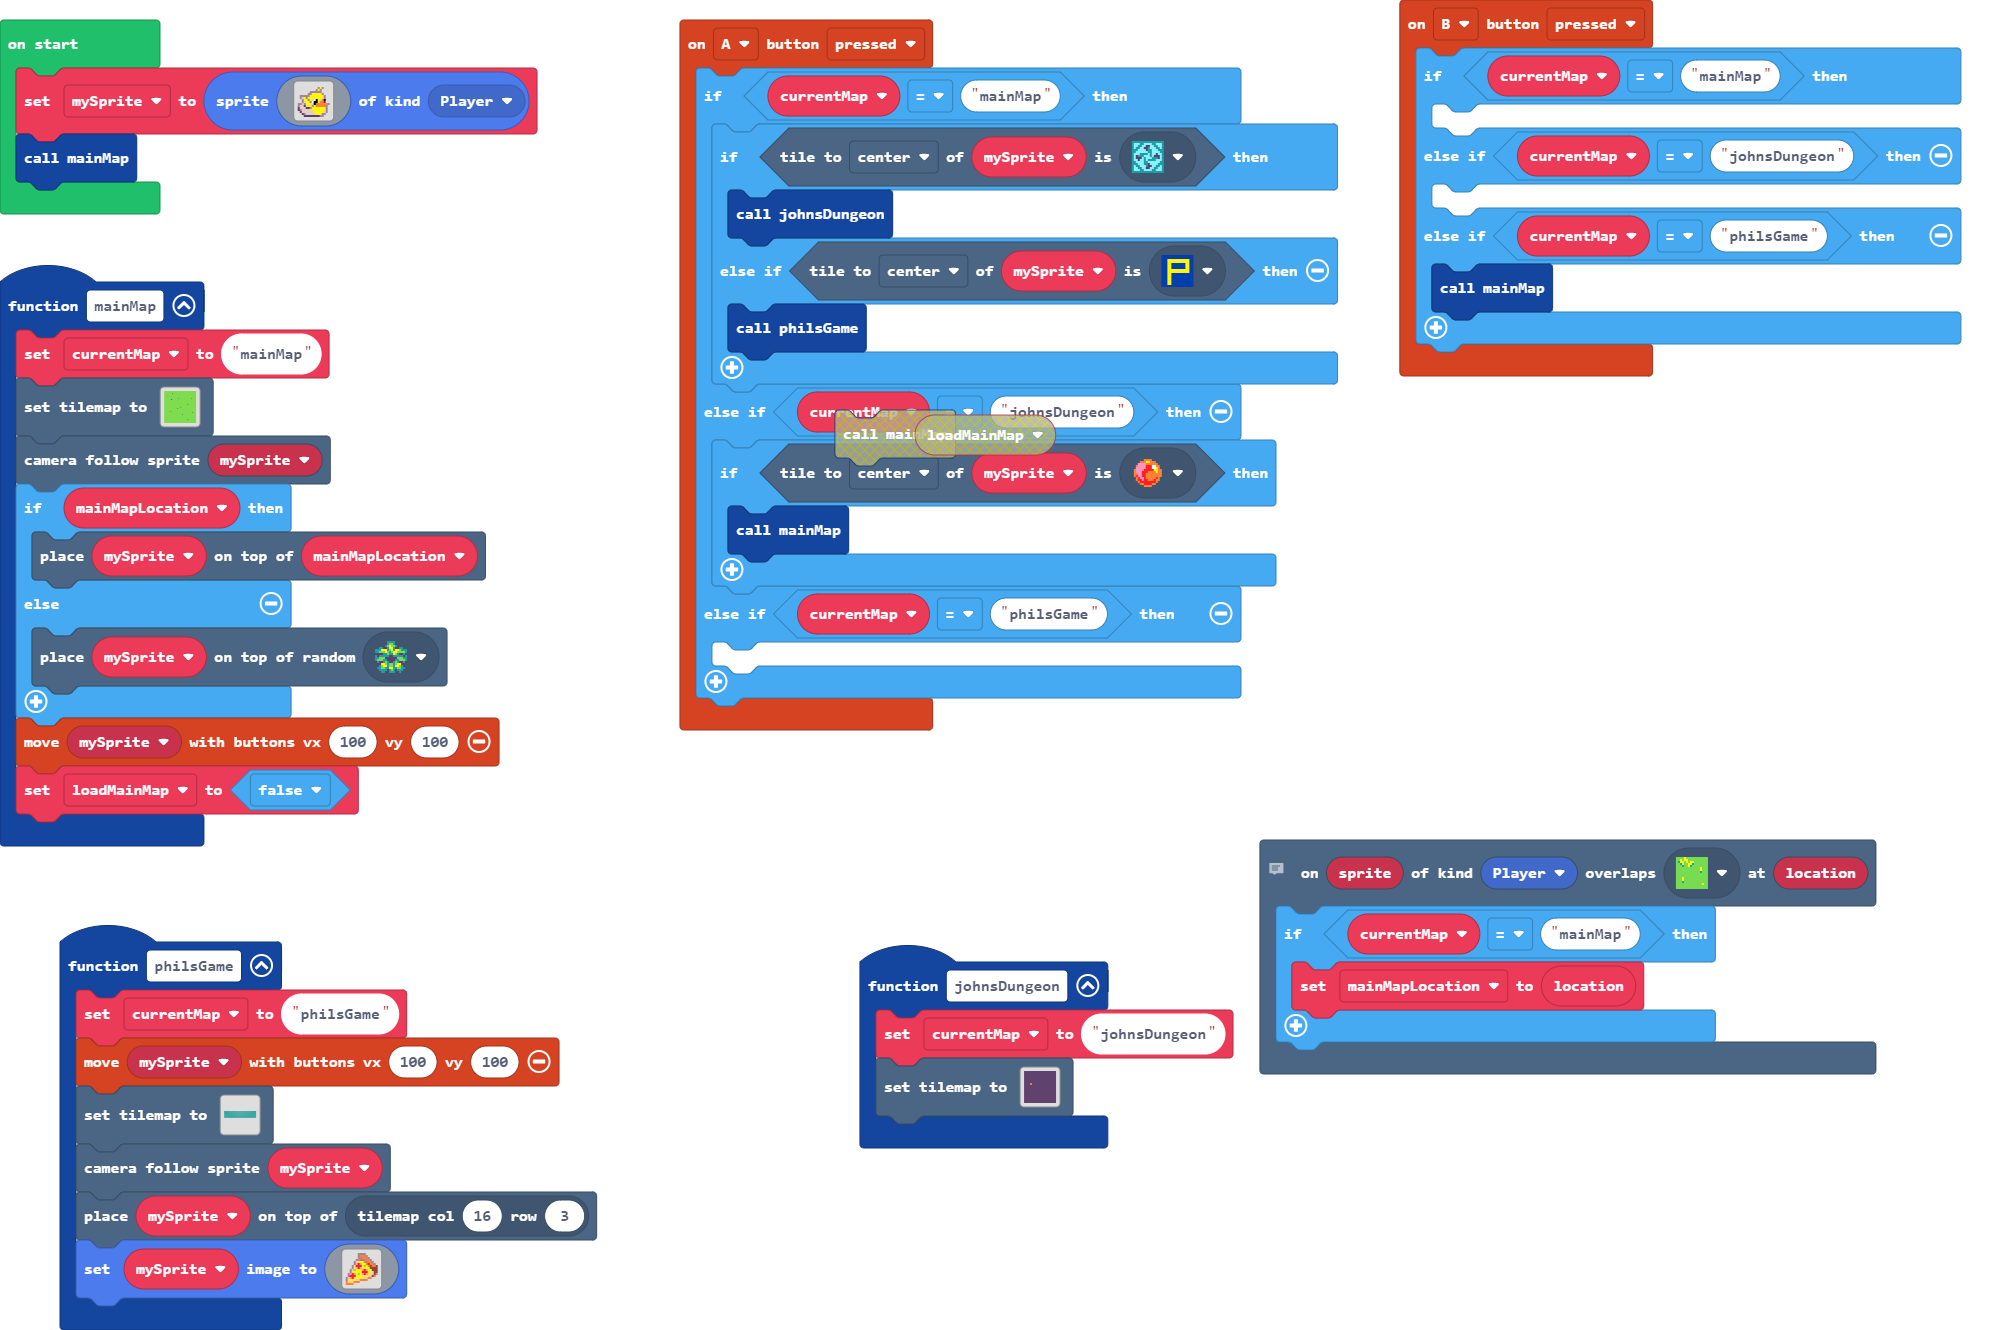
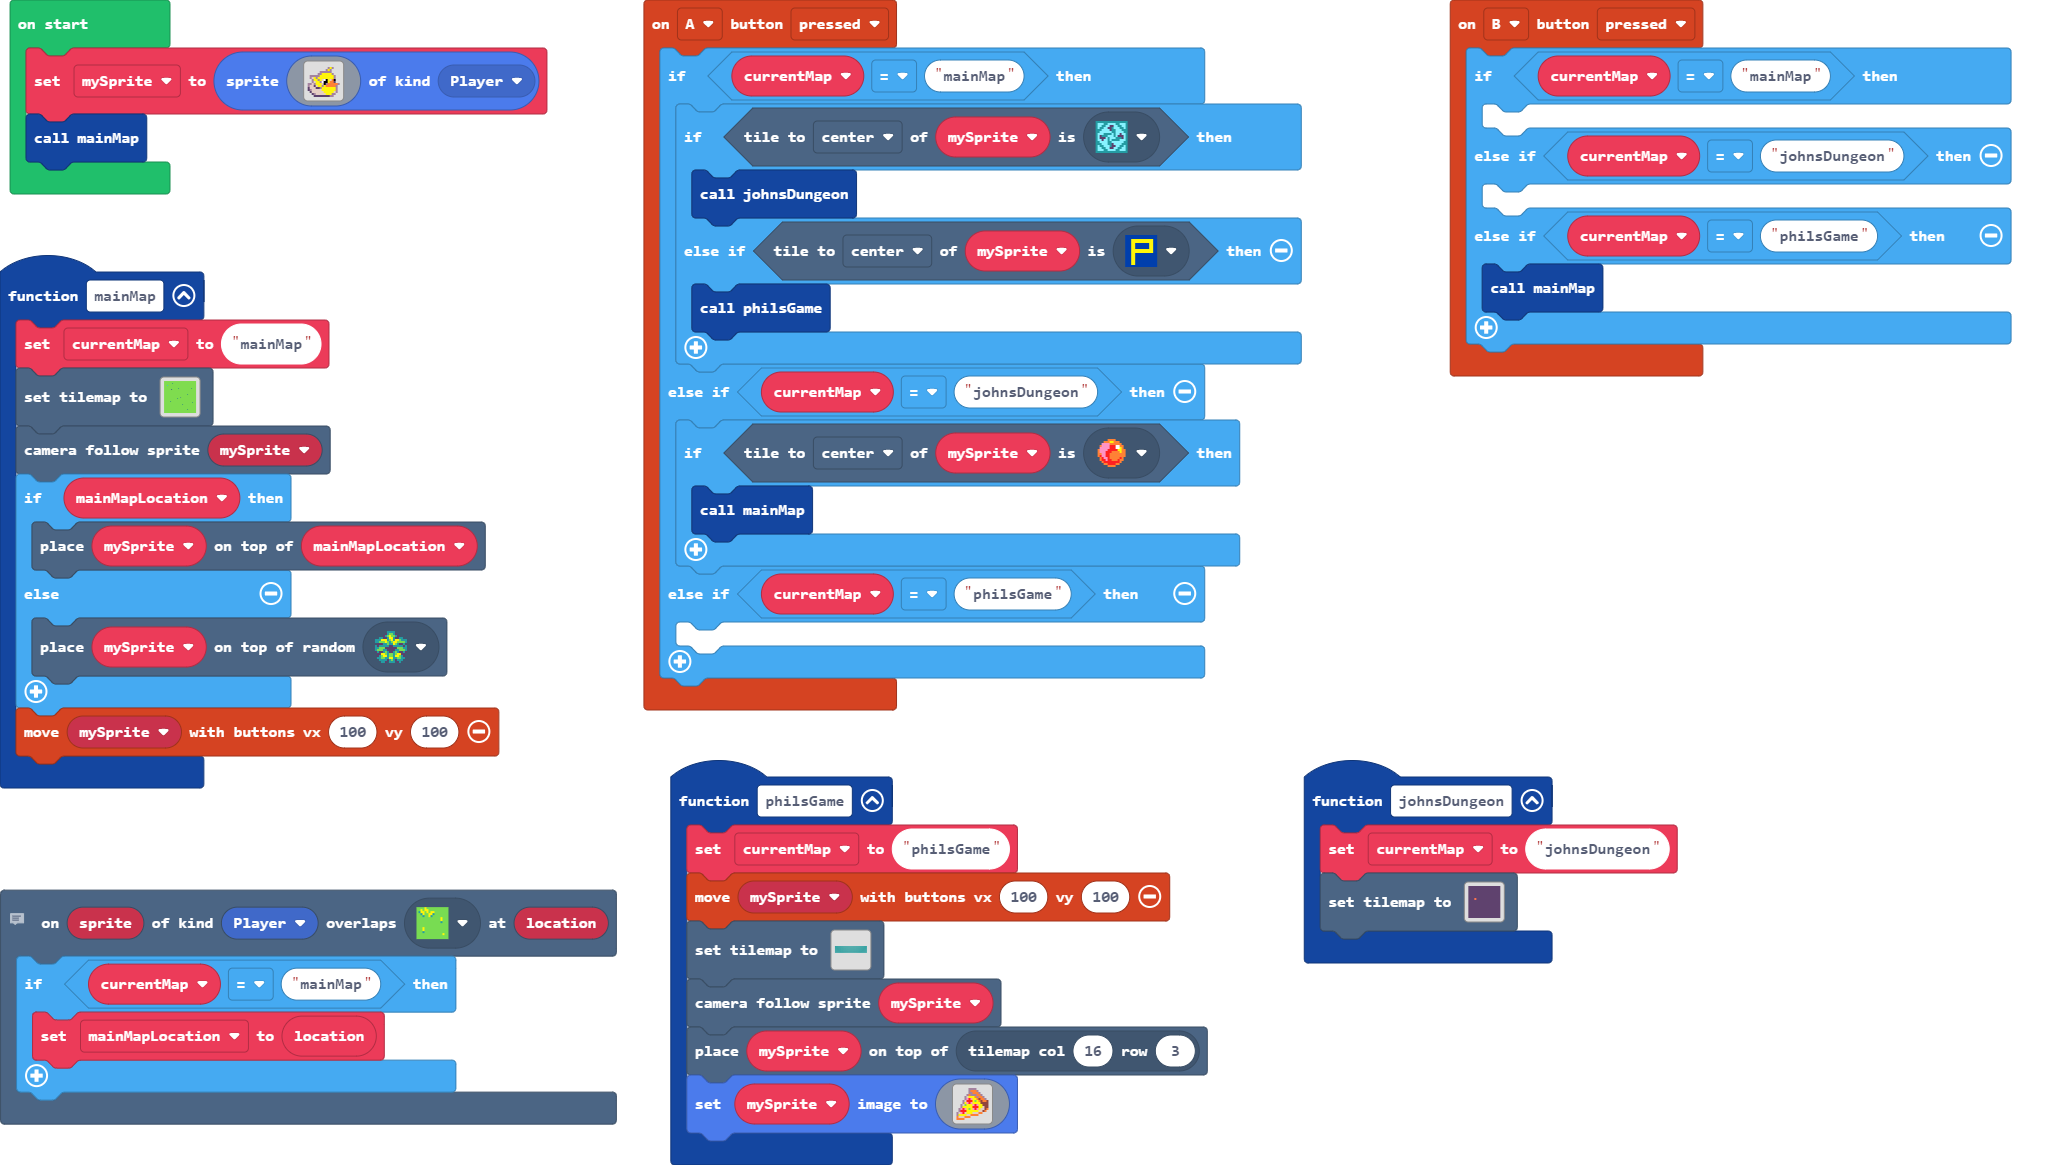
variable cleanup

diff --git a/main.ts b/main.ts
@@ -32,7 +32,6 @@ function mainMap () {
         tiles.placeOnRandomTile(mySprite, sprites.castle.shrub)
     }
     controller.moveSprite(mySprite, 100, 100)
-    loadMainMap = false
 }
 // Cannot yet find a way to keep track of where you left the main map as the "location" variable is not available in the "button" block.
 scene.onOverlapTile(SpriteKind.Player, sprites.castle.tileGrass1, function (sprite, location) {
@@ -77,7 +76,6 @@ function johnsDungeon () {
     currentMap = "johnsDungeon"
     tiles.setTilemap(tilemap`johnsDungeon`)
 }
-let loadMainMap = false
 let mainMapLocation: tiles.Location = null
 let currentMap = ""
 let mySprite: Sprite = null
